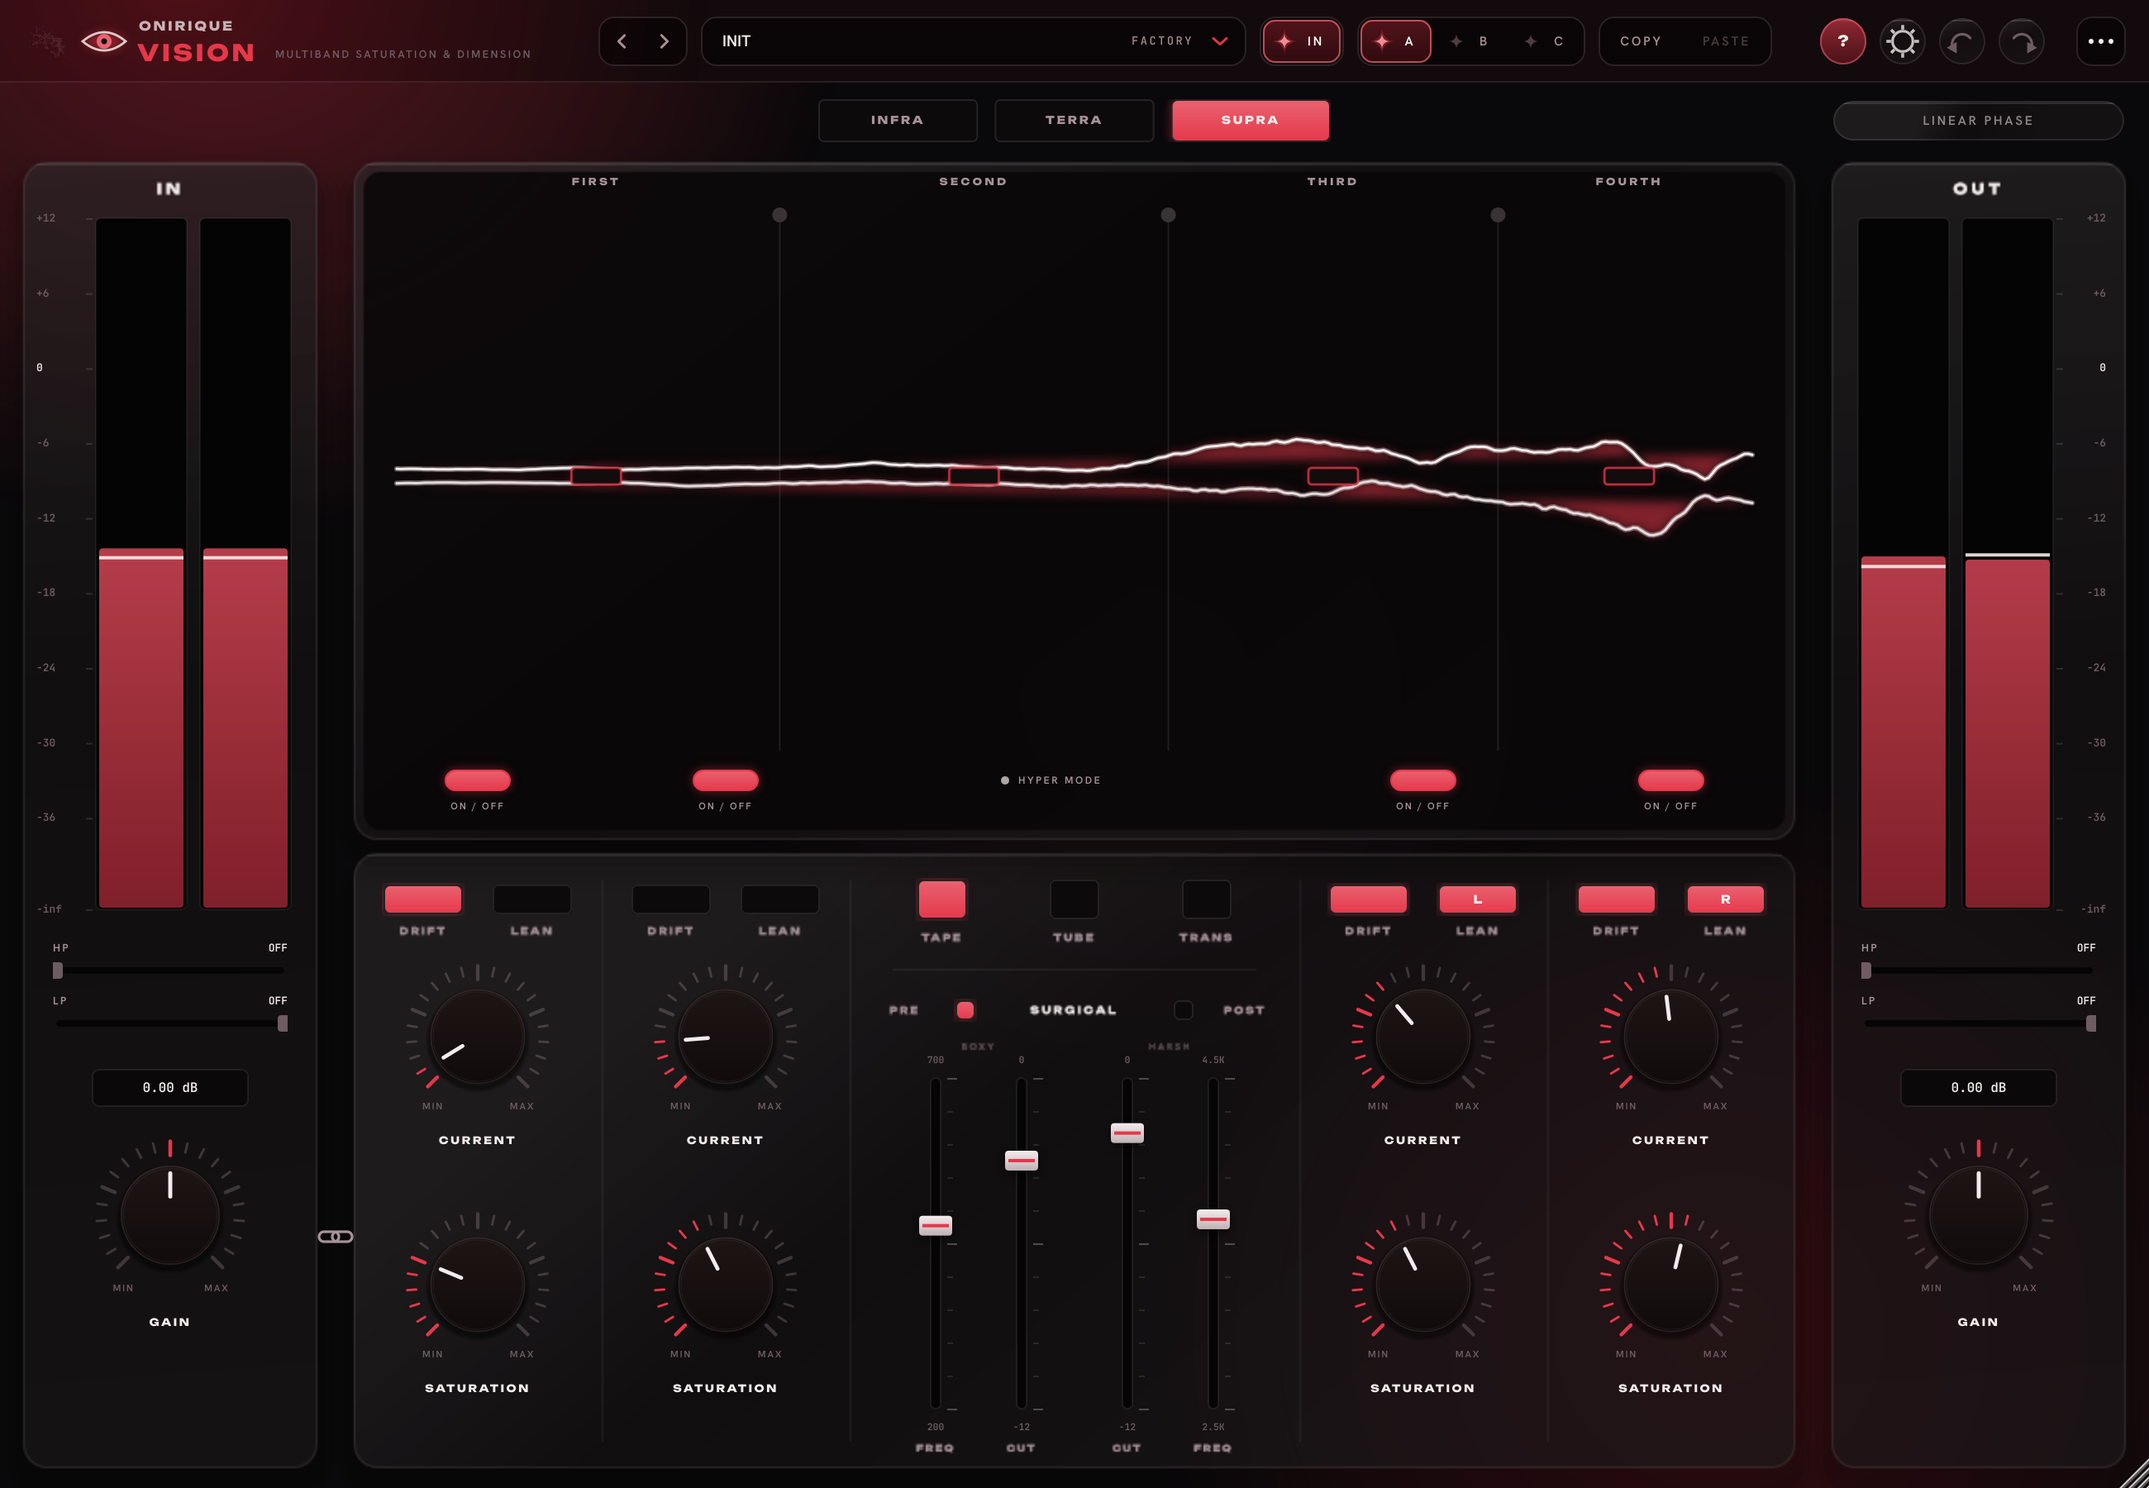
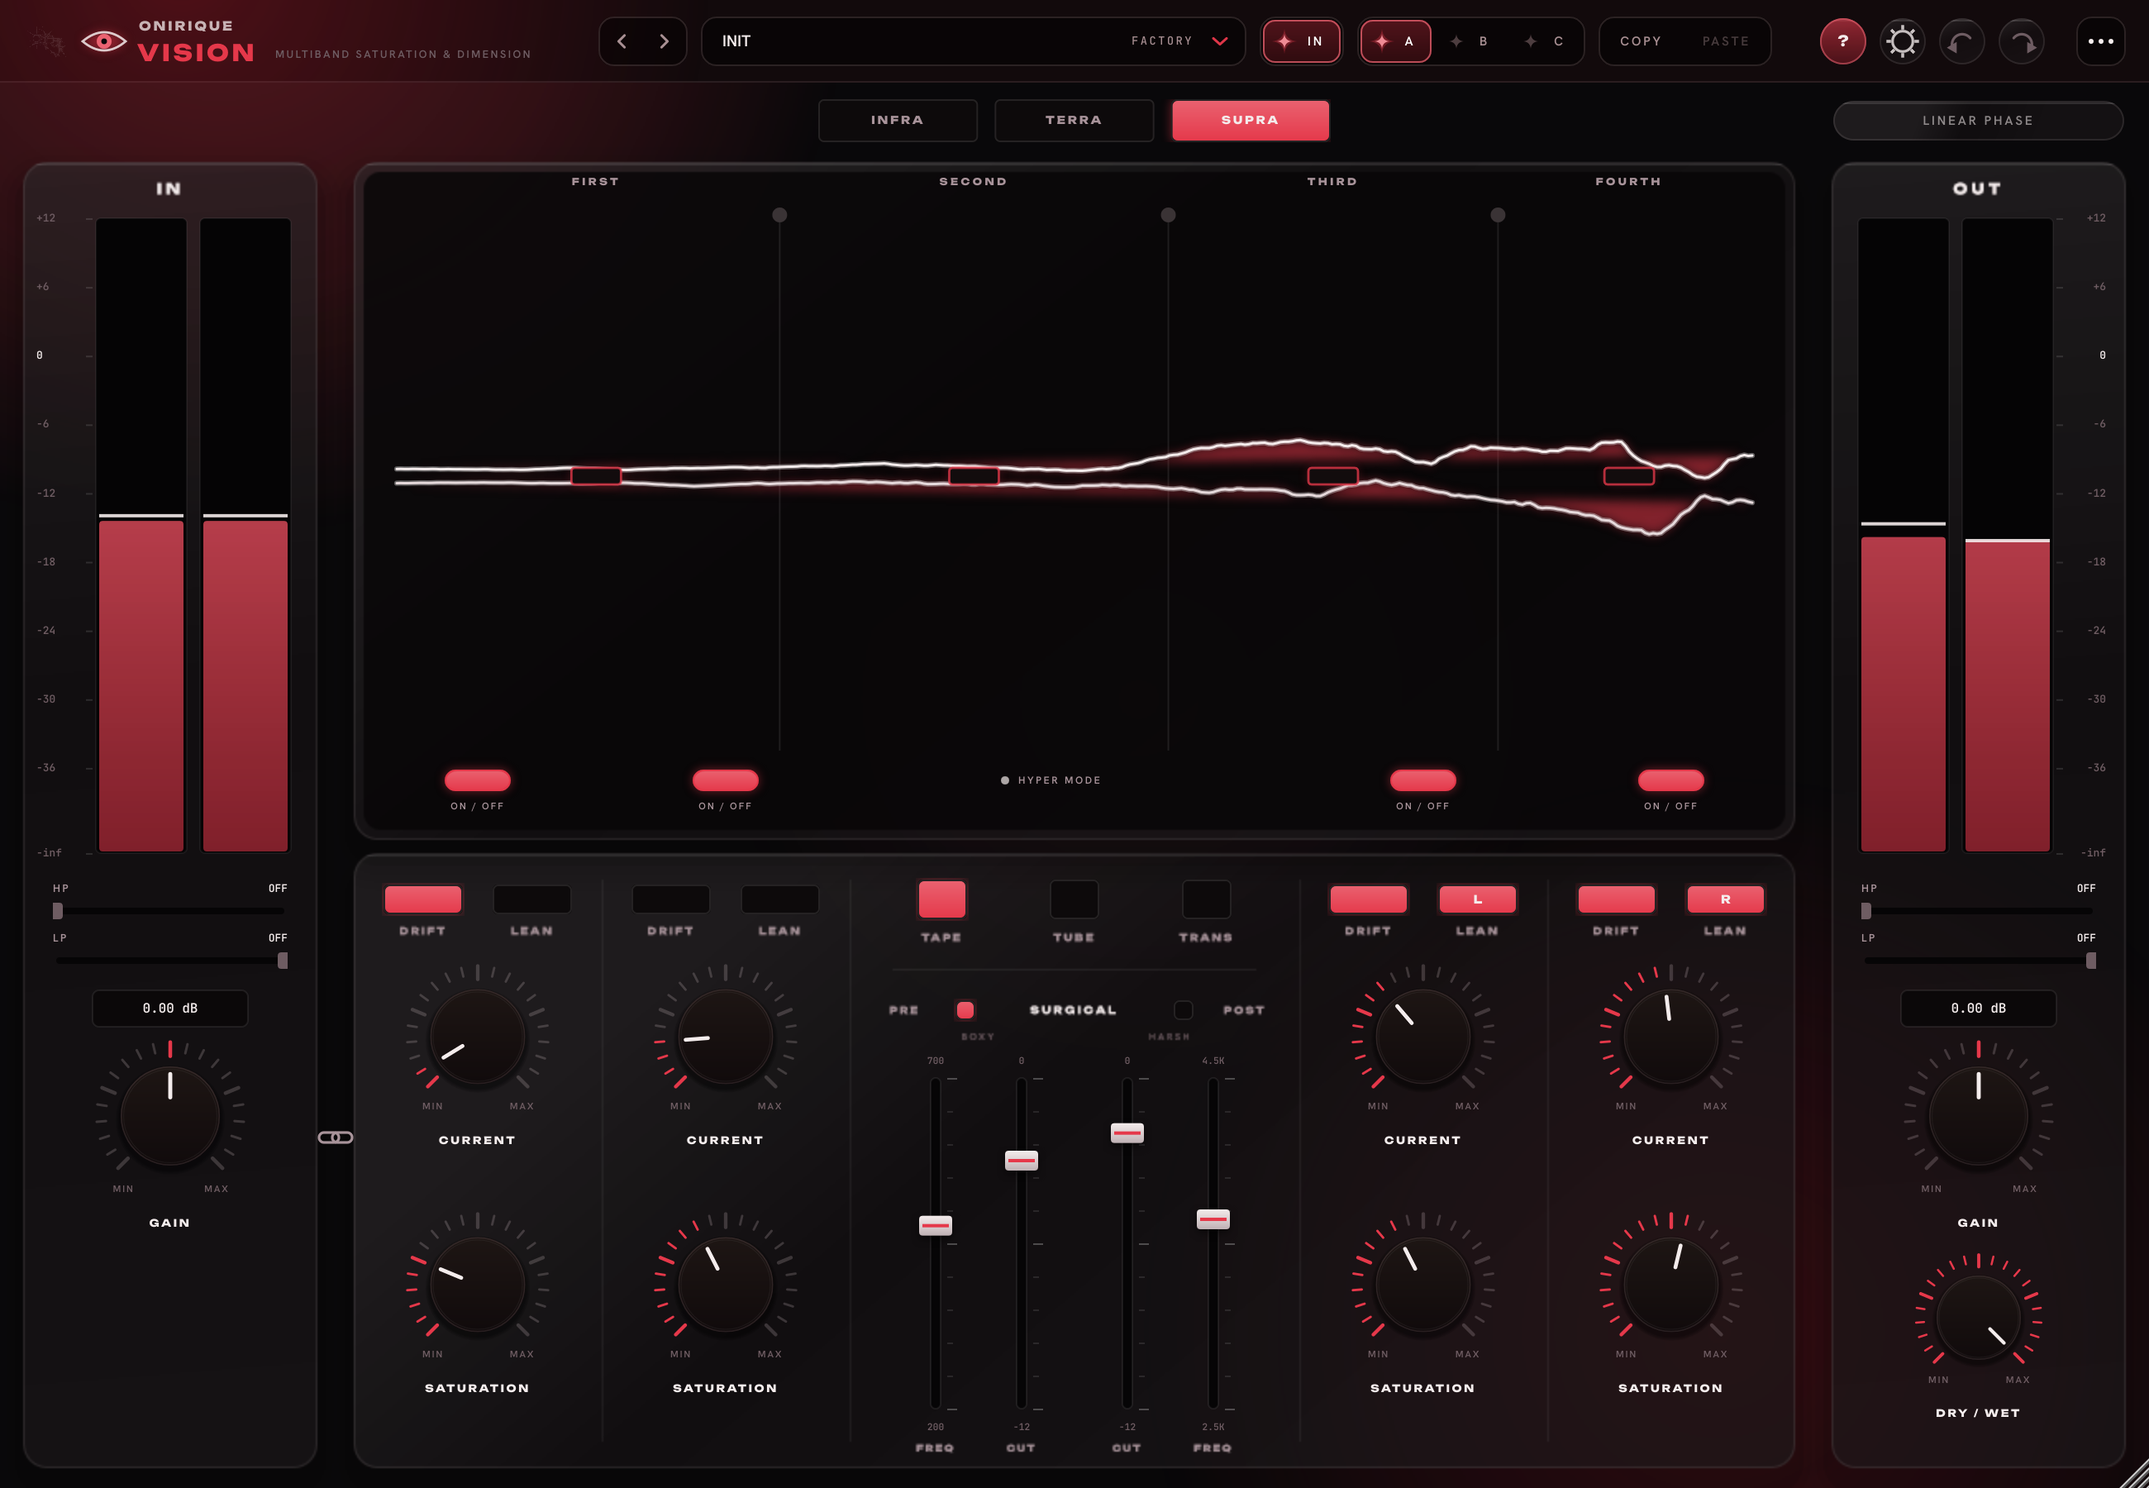
Première version d'ONIRIQUE VISION, saturation multibande et dimension stéréo. Tu règles quatre bandes directement dans la fenêtre animée, et chacune a sa saturation TAPE, TUBE ou TRANS. CURRENT donne du mouvement et de la largeur sans rien perdre en mono, DRIFT et LEAN placent chaque bande dans l'e

diff --git a/Source/PluginEditor.cpp b/Source/PluginEditor.cpp
@@ -42,6 +42,7 @@ VisionEditor::VisionEditor (VisionProcessor& proc)
       inHp (p (params::inHp), "HP"), inLp (p (params::inLp), "LP"), outHp (p (params::outHp), "HP"), outLp (p (params::outLp), "LP"),
       inReadout (p (params::inGain)), outReadout (p (params::outGain)),
       inGain (p (params::inGain), "GAIN", knobLook, true), outGain (p (params::outGain), "GAIN", knobLook, true),
+      dryWet (p (params::mix), "DRY / WET", knobLook),
       link (p (params::gainLink)),
       linear (p (params::linear), "LINEAR PHASE"),
       undoButton (ui::IconButton::undo, fr ("Annuler")), redoButton (ui::IconButton::redo, fr ("Rétablir")),
@@ -63,10 +64,11 @@ VisionEditor::VisionEditor (VisionProcessor& proc)
     }
     inGain.setBelow (true);
     outGain.setBelow (true);
+    dryWet.setBelow (true);
 
     for (juce::Component* c : std::initializer_list<juce::Component*> {
              &colors, &view, &tape, &tube, &trans, &pre, &post, &boxyFreq, &boxyCut, &harshCut, &harshFreq,
-             &inMeter, &outMeter, &inHp, &inLp, &outHp, &outLp, &inReadout, &outReadout, &inGain, &outGain, &link,
+             &inMeter, &outMeter, &inHp, &inLp, &outHp, &outLp, &inReadout, &outReadout, &inGain, &outGain, &dryWet, &link,
              &linear, &undoButton, &redoButton, &helpButton, &settingsButton })
         addAndMakeVisible (c);
     for (int b = 0; b < vision::numBands; ++b)
@@ -80,6 +82,7 @@ VisionEditor::VisionEditor (VisionProcessor& proc)
     }
     addKnobMenu (inGain, params::inGain);
     addKnobMenu (outGain, params::outGain);
+    addKnobMenu (dryWet, params::mix);
 
     undoButton.onClick = [this] { processor.undo.undo(); };
     redoButton.onClick = [this] { processor.undo.redo(); };
@@ -219,6 +222,7 @@ void VisionEditor::updateTips()
     outLp.setTooltip (fr ("Passe-bas de sortie, après tout le circuit. Tout à droite : OFF."));
     inGain.setTip (fr ("Gain d'entrée : plus haut, le circuit de saturation travaille plus fort."));
     outGain.setTip (fr ("Gain de sortie."));
+    dryWet.setTip (fr ("DRY / WET : le son d'origine mêlé au son traité. Le son d'origine reste en phase avec le traitement : doser à mi-chemin ne creuse rien."));
     link.setTooltip (fr ("GAIN LINK : la sortie compense l'entrée. Montez l'entrée pour saturer plus fort, le volume reste le même : "
                          "on compare sans être trompé par le plus fort."));
     linear.setTooltip (fr ("LINEAR PHASE : les quatre bandes deviennent à phase linéaire (la rotation de phase de la séparation est corrigée). "
@@ -383,17 +387,19 @@ void VisionEditor::resized()
     {
         const auto col = sd == 0 ? layout::left : layout::right;
         const float cx = col.getCentreX(), y = col.getY();
-        place (sd == 0 ? (juce::Component&) inMeter : (juce::Component&) outMeter, R (col.getX() + 8, y + 28, col.getWidth() - 16, 430));
+        place (sd == 0 ? (juce::Component&) inMeter : (juce::Component&) outMeter, R (col.getX() + 8, y + 28, col.getWidth() - 16, 396));
         (sd == 0 ? inMeter : outMeter).setScale (s);
         auto& hp = sd == 0 ? inHp : outHp;
         auto& lp = sd == 0 ? inLp : outLp;
-        place (hp, R (col.getX() + 18, y + 470, col.getWidth() - 36, 26)); hp.setScale (s);
-        place (lp, R (col.getX() + 18, y + 502, col.getWidth() - 36, 26)); lp.setScale (s);
+        place (hp, R (col.getX() + 18, y + 434, col.getWidth() - 36, 26)); hp.setScale (s);
+        place (lp, R (col.getX() + 18, y + 464, col.getWidth() - 36, 26)); lp.setScale (s);
         auto& ro = sd == 0 ? inReadout : outReadout;
-        place (ro, R (96, 24).withCentre ({ cx, y + 560 })); ro.setScale (s);
-        knob (sd == 0 ? inGain : outGain, cx, y + 650, layout::gainKnob);
+        place (ro, R (96, 24).withCentre ({ cx, y + 512 })); ro.setScale (s);
+        knob (sd == 0 ? inGain : outGain, cx, y + 590, layout::gainKnob);
     }
-    place (link, R (26, 20).withCentre ({ (layout::left.getRight() + layout::view.getX()) * 0.5f, layout::left.getY() + 650 })); link.setScale (s);
+    // DRY / WET : en bas à droite, sous le gain de sortie
+    knob (dryWet, layout::right.getCentreX(), layout::right.getY() + 712, juce::Point<float> (86, 106));
+    place (link, R (26, 20).withCentre ({ (layout::left.getRight() + layout::view.getX()) * 0.5f, layout::left.getY() + 590 })); link.setScale (s);
 
     // la barre du haut et la pastille de licence
 #if VISION_LICENCE

diff --git a/Source/dsp/VisionEngine.h b/Source/dsp/VisionEngine.h
@@ -52,6 +52,7 @@ struct EngineParams
     double boxyFreq = 400.0, boxyCut = 0.0, harshFreq = 3500.0, harshCut = 0.0;   // coupes en dB (0 = rien)
     int os = 1;                              // 0 = 1x, 1 = 2x, 2 = 4x, 3 = 8x
     bool bypass = false;
+    double mix = 1.0;                        // DRY / WET : 0 = le son d'origine, 1 = tout le traitement
 };
 
 inline bool hpOff (double f) { return f <= 10.5; }
@@ -717,6 +718,10 @@ struct Core
     Color color;
     Surgical surgical;
     Smooth logX[3];
+    // DRY / WET : le son d'origine passe par le même passe-tout que la séparation (AP(f1)·AP(f2)·AP(f3)) : il reste en
+    // phase avec le traitement, et doser à mi-chemin ne creuse rien
+    Svf apDry[2][3];
+    Smooth mix;
     int counter = 0;
     Convolver* linear = nullptr;                  // non nul : LINEAR PHASE en service
 
@@ -725,6 +730,7 @@ struct Core
         fs = rate; linear = conv;
         const double ctl = rate / controlStep;
         for (int i = 0; i < 3; ++i) logX[i].setTime (0.05, ctl);
+        mix.setTime (0.03, rate);
         for (int b = 0; b < numBands; ++b) bands[b].prepare (rate, b, 0xC0FFEEull + 7919ull * (uint64_t) (b + 1));
         color.prepare (rate);
         surgical.prepare (rate);
@@ -737,6 +743,8 @@ struct Core
         orderCrossovers (x);
         for (int i = 0; i < 3; ++i) logX[i].snap (std::log (x[i]));
         for (auto& c : xo) { c.reset(); c.set (x, fs); }
+        for (auto& ch : apDry) for (auto& a : ch) a.reset();
+        mix.snap (std::clamp (p.mix, 0.0, 1.0));
         bool anySolo = false; for (auto& b : p.band) anySolo |= b.solo;
         for (int b = 0; b < numBands; ++b) { bands[b].reset(); bands[b].snap (p.band[b], p.satType, p.hyper, anySolo); }
         color.reset(); color.snap (p.color);
@@ -750,6 +758,7 @@ struct Core
         double x[3] { p.xover[0], p.xover[1], p.xover[2] };
         orderCrossovers (x);
         for (int i = 0; i < 3; ++i) logX[i].target = std::log (x[i]);
+        mix.target = std::clamp (p.mix, 0.0, 1.0);
         bool anySolo = false; for (auto& b : p.band) anySolo |= b.solo;
         for (int b = 0; b < numBands; ++b) bands[b].setTargets (p.band[b], p.satType, p.hyper, anySolo);
         color.setTarget (p.color);
@@ -761,6 +770,8 @@ struct Core
         double x[3];
         for (int i = 0; i < 3; ++i) x[i] = std::exp (logX[i].next());
         for (auto& c : xo) c.set (x, fs);
+        for (auto& ch : apDry)
+            for (int i = 0; i < 3; ++i) ch[i].set (Svf::allpass, x[i], 0.70710678, 0.0, fs);
         for (int b = 0; b < numBands; ++b)
         {
             double lo, hi; bandEdges (x, b, lo, hi);
@@ -784,6 +795,8 @@ struct Core
             counter = (counter + 1) % controlStep;
 
             double io[2] { (double) l[i], channels == 2 ? (double) r[i] : 0.0 };
+            double dry[2] { 0.0, 0.0 };
+            for (int c = 0; c < channels; ++c) dry[c] = apDry[c][2].process (apDry[c][1].process (apDry[c][0].process (io[c])));
             if (! surgical.post) surgical.process (io, channels);
 
             double split[2][numBands];
@@ -797,6 +810,9 @@ struct Core
             }
             if (surgical.post) surgical.process (sum, channels);
             color.process (sum, channels);
+            const double mx = mix.next();
+            if (mx < 1.0 - 1.0e-9)
+                for (int c = 0; c < channels; ++c) sum[c] = dry[c] + mx * (sum[c] - dry[c]);
 
             l[i] = (float) sum[0];
             if (channels == 2) r[i] = (float) sum[1];

diff --git a/Source/Params.h b/Source/Params.h
@@ -14,7 +14,8 @@ inline const juce::String inGain = "inGain", outGain = "outGain", gainLink = "ga
                           color = "color", satType = "satType", hyper = "hyper", linear = "linear",
                           x1 = "x1", x2 = "x2", x3 = "x3",
                           boxyFreq = "boxyFreq", boxyCut = "boxyCut", harshFreq = "harshFreq", harshCut = "harshCut",
-                          surgicalPost = "surgicalPost", osRealtime = "osRealtime", osOffline = "osOffline", bypass = "bypass";
+                          surgicalPost = "surgicalPost", osRealtime = "osRealtime", osOffline = "osOffline", bypass = "bypass",
+                          mix = "mix";
 
 inline const char* bandNames[vision::numBands] { "FIRST", "SECOND", "THIRD", "FOURTH" };
 
@@ -110,6 +111,7 @@ inline juce::AudioProcessorValueTreeState::ParameterLayout layout()
     db (inGain, "Input", -24.0f, 24.0f, 0.0f);
     db (outGain, "Output", -24.0f, 24.0f, 0.0f);
     toggle (gainLink, "Gain Link", false);
+    pct (mix, "Dry/Wet", 100.0f, 100.0f);
     // filtres d'entrée et de sortie
     const StringArray slopes { "12 dB/oct", "24 dB/oct", "48 dB/oct" };
     freq (inHp, "Input High Pass", 10.0f, 1000.0f, 10.0f, -1);
@@ -162,7 +164,7 @@ struct Reader
         for (const auto* id : { &inGain, &outGain, &gainLink, &inHp, &inLp, &inSlope, &outHp, &outLp, &outSlope,
                                 &color, &satType, &hyper, &linear, &x1, &x2, &x3,
                                 &boxyFreq, &boxyCut, &harshFreq, &harshCut,
-                                &surgicalPost, &osRealtime, &osOffline, &bypass })
+                                &surgicalPost, &osRealtime, &osOffline, &bypass, &mix })
             add (*id);
         for (int b = 0; b < vision::numBands; ++b)
             for (const auto& id : { bandOn (b), bandSolo (b), bandLevel (b), bandSat (b), bandCurrent (b), bandDrift (b), bandLean (b) })
@@ -186,6 +188,7 @@ struct Reader
         const int rt = c(), off = c();
         p.os = offline ? off : rt;
         p.bypass = b();
+        p.mix = f() / 100.0;
         for (auto& bp : p.band)
         {
             bp.on = b(); bp.solo = b(); bp.levelDb = f();

diff --git a/Tests/VisionBench.cpp b/Tests/VisionBench.cpp
@@ -209,6 +209,42 @@ static void testLinearPhase()
     }
 }
 
+static void testDryWet()
+{
+    std::printf ("\n[DRY / WET]\n");
+    const double fs = 48000.0;
+    auto through = [&] (const EngineParams& p)
+    {
+        Engine e; e.prepare (fs, 512, p, 2);
+        auto in = noise (48000, 33, 0.5);
+        juce::AudioBuffer<float> b (2, 48000);
+        for (int i = 0; i < 48000; ++i) { b.setSample (0, i, in[(size_t) i]); b.setSample (1, i, in[(size_t) i]); }
+        run (e, b, p);
+        return b;
+    };
+    auto nullDb = [] (const juce::AudioBuffer<float>& a, const juce::AudioBuffer<float>& b)
+    {
+        double err = 0, sig = 0;
+        for (int c = 0; c < 2; ++c)
+            for (int i = 4000; i < a.getNumSamples(); ++i) { const double d = a.getSample (c, i) - b.getSample (c, i); err += d * d; sig += (double) b.getSample (c, i) * b.getSample (c, i); }
+        return 10.0 * std::log10 (err / sig + 1.0e-30);
+    };
+    const auto ref = through (neutral());
+    {
+        auto p = neutral(); p.mix = 0.0; p.color = 2; p.hyper = true; p.boxyCut = -6.0;
+        for (auto& b : p.band) { b.sat = 1.0; b.current = 2.0; b.drift = true; b.lean = 1; }
+        const double d = nullDb (through (p), ref);
+        std::printf ("  DRY / WET à 0 %%, tout poussé, contre le moteur neutre : %.1f dB\n", d);
+        check (d < -100.0, "DRY / WET à 0 % : le son d'origine exact (aligné, même phase)");
+    }
+    {
+        auto p = neutral(); p.mix = 0.5;
+        const double d = nullDb (through (p), ref);
+        std::printf ("  DRY / WET à 50 %%, réglages neutres : %.1f dB\n", d);
+        check (d < -100.0, "DRY / WET à 50 % : aucun peigne (le dry est en phase avec le traitement)");
+    }
+}
+
 static void testSaturation()
 {
     std::printf ("\n[saturations] signatures harmoniques (sinus -12 dBFS, saturation 60 %%, bande seule)\n");
@@ -534,6 +570,7 @@ int main()
     testCrossover();
     testNeutralAndBypass();
     testLinearPhase();
+    testDryWet();
     testSaturation();
     testCurrentDriftLean();
     testColorsAndSurgical();

diff --git a/Source/PluginEditor.h b/Source/PluginEditor.h
@@ -17,7 +17,7 @@
 //                    ON / OFF de chaque bande, HYPER MODE
 //    bandes          DRIFT et LEAN, CURRENT, SATURATION (FIRST et SECOND à gauche, THIRD et FOURTH à droite)
 //    milieu          TAPE / TUBE / TRANS, PRE · SURGICAL · POST, faders FREQ CUT (BOXY) et CUT FREQ (HARSH)
-//    côtés           IN et OUT : VU-mètre, filtres HP / LP, gain (boîte et potard), GAIN LINK
+//    côtés           IN et OUT : VU-mètre, filtres HP / LP, gain (boîte et potard), GAIN LINK ; DRY / WET sous OUT
 //==============================================================================
 class VisionEditor : public juce::AudioProcessorEditor, private juce::Timer
 {
@@ -80,7 +80,7 @@ private:
     ui::Meter inMeter, outMeter;
     ui::HSlider inHp, inLp, outHp, outLp;
     ui::Readout inReadout, outReadout;
-    ui::Knob inGain, outGain;
+    ui::Knob inGain, outGain, dryWet;
     ui::LinkButton link;
     // haut
     ui::TextToggle linear;

diff --git a/Documentation/DSP.md b/Documentation/DSP.md
@@ -102,6 +102,12 @@ fractionnaire : il est complété jusqu'à l'échantillon entier dans le domaine
 le nouveau chemin se remplit, puis un fondu de 40 ms. BYPASS : rampe linéaire de 30 ms vers le signal d'origine retardé
 de la latence (au bit près à son terme).
 
+## DRY / WET
+
+Le son d'origine passe par le même passe-tout que la séparation (AP(f1)·AP(f2)·AP(f3)), après la correction de LINEAR
+PHASE s'il y en a une : il reste en phase avec le traitement. Mesures : à 0 %, tout poussé, le son d'origine à -155 dB
+près ; à 50 % en réglages neutres, aucun peigne (-158 dB).
+
 ## LINEAR PHASE
 
 Une bande Linkwitz-Riley d'ordre 4 a exactement la phase du passe-tout de sa séparation (LP4 = AP · |LP4|,

diff --git a/README.md b/README.md
@@ -2,7 +2,7 @@
 
 Saturation multibande et dimension stéréo, disposée comme LACUNA. Quatre bandes (FIRST, SECOND, THIRD, FOURTH), trois saturations (TAPE, TUBE,
 TRANS), mouvement spectral CURRENT, décalage DRIFT, orientation LEAN, couleurs INFRA / TERRA / SUPRA, HYPER MODE,
-filtres BOXY et HARSH, filtres d'entrée et de sortie, GAIN LINK, LINEAR PHASE, comparaison A / B / C. VST3 sur Windows, VST3 et
+filtres BOXY et HARSH, filtres d'entrée et de sortie, GAIN LINK, DRY / WET, LINEAR PHASE, comparaison A / B / C. VST3 sur Windows, VST3 et
 Audio Unit sur Mac.
 
 Inspiré des fonctions de LACUNA (Sabol Hill) ; aucun code, algorithme propriétaire ni visuel n'en est repris :
